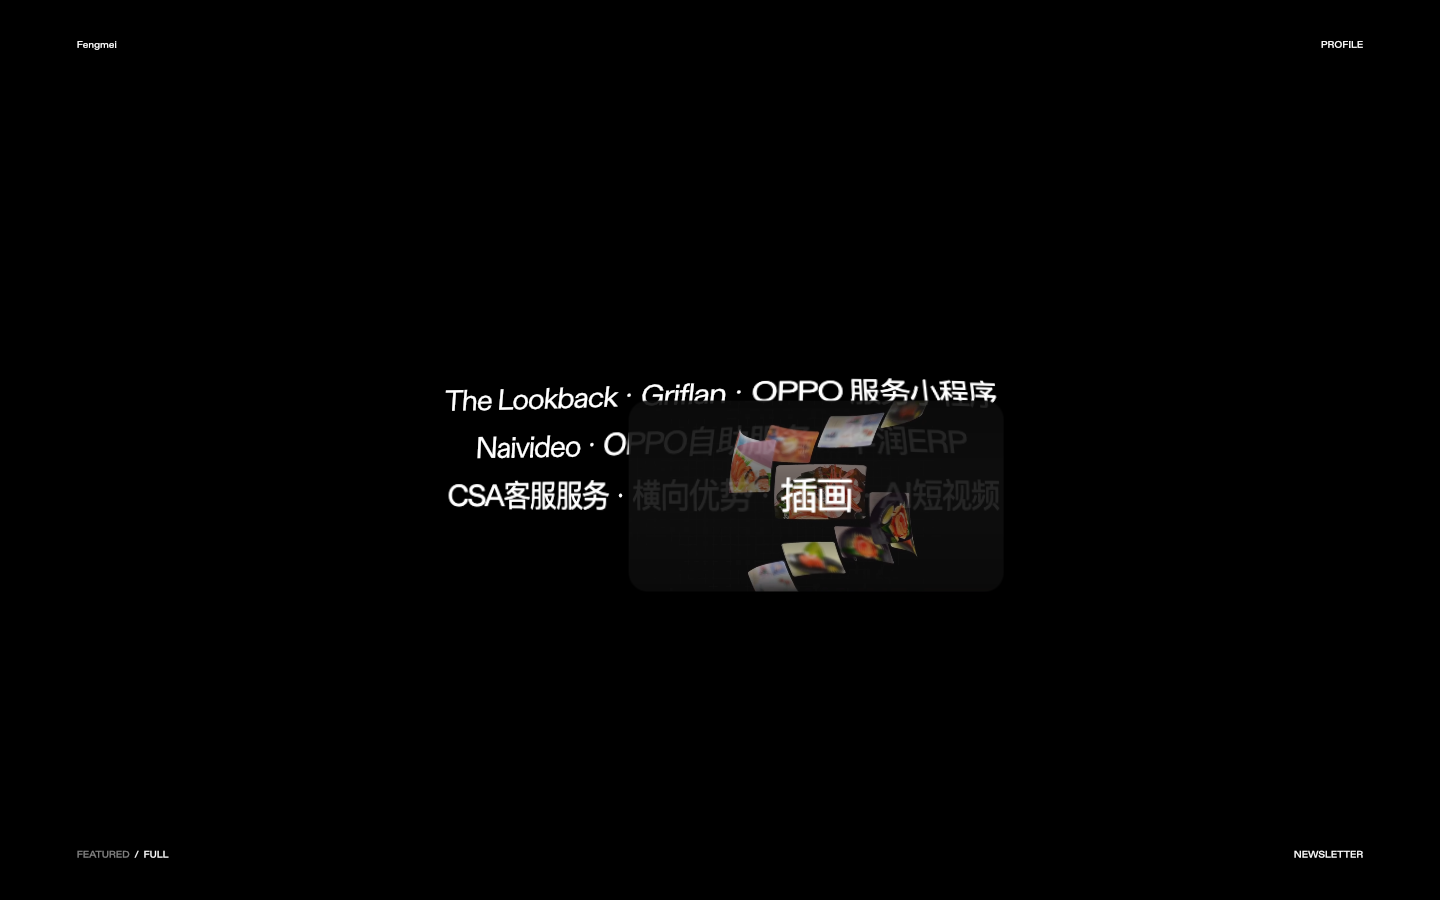
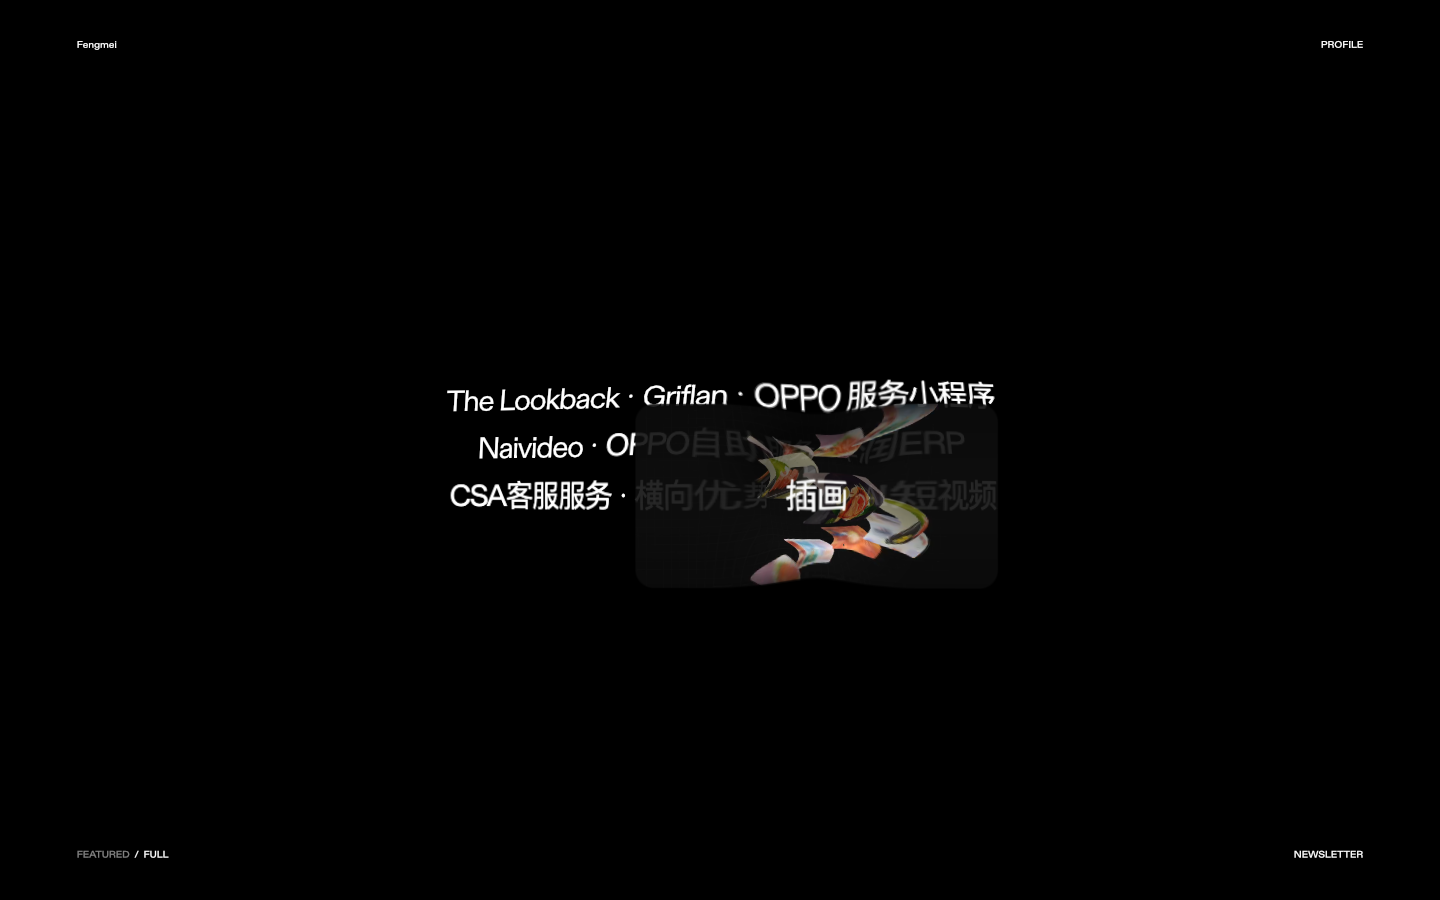
Play home gallery motion automatically without hover

Changed region(s): [[0.3125, 0.4044, 0.6875, 0.6844]]

diff --git a/site/local-motion.js b/site/local-motion.js
@@ -12,31 +12,29 @@
     install: function (folio) {
       if (folio.galleryMotion) return;
       var media = matchMedia('(prefers-reduced-motion: reduce)');
-      var pointer = { x: .5, y: .5, sx: .5, sy: .5, active: false };
-      var hovered = null, pressed = null;
+      var elapsed = 0;
+      var pressed = null;
       var states = new WeakMap();
       var intro = -10000;
       var enabled = function () { return !media.matches && location.pathname === '/' && !folio.ctx.$resize?.small; };
       var clamp = function (n, a, b) { return Math.max(a, Math.min(b, n)); };
       function stateFor(el) {
         var state = states.get(el);
-        if (!state) { state = { hover: 0, press: 0, x: .5, y: .5 }; states.set(el, state); }
+        if (!state) { state = { focus: 0, press: 0, x: .5, y: .5 }; states.set(el, state); }
         return state;
       }
-      folio.galleryMotion = { pointer: pointer, get enabled() { return enabled(); } };
-      window.addEventListener('pointermove', function (e) {
-        pointer.x = e.clientX / innerWidth;
-        pointer.y = e.clientY / innerHeight;
-        pointer.active = e.pointerType !== 'touch';
-        hovered = pointer.active ? e.target.closest?.('[data-gl="card"]') : null;
-      }, { passive: true });
+      folio.galleryMotion = { autoplay: true, get enabled() { return enabled(); } };
       function release() { pressed = null; }
-      function leave() { pointer.active = false; hovered = null; release(); }
       window.addEventListener('pointerdown', function (e) { if (e.button === 0) pressed = e.target.closest?.('[data-gl="card"]'); }, { passive: true });
       window.addEventListener('pointerup', release, { passive: true });
-      window.addEventListener('pointercancel', leave, { passive: true });
-      document.documentElement.addEventListener('pointerleave', leave);
-      window.addEventListener('blur', leave);
+      window.addEventListener('pointercancel', release, { passive: true });
+      window.addEventListener('blur', release);
+      // Home card motion follows its own clock; hover remains native on
+      // navigation and the catalogue, without driving the home presentation.
+      var tone = folio.tone;
+      folio.tone = function () {
+        if (location.pathname !== '/') return tone.apply(this, arguments);
+      };
 
       // Light is evaluated on the existing card surface: no overlay can
       // intercept clicks or cover the four corner navigation controls.
@@ -60,29 +58,33 @@
       var showHome = folio.showHome;
       folio.showHome = function () {
         intro = performance.now();
+        elapsed = 0;
         return showHome.apply(this, arguments);
       };
       var tick = folio.tick;
       folio.tick = function (dt) {
         var k = 1 - Math.exp(-Math.min(dt || .016, .05) * 7);
-        pointer.sx += ((pointer.active ? pointer.x : .5) - pointer.sx) * k;
-        pointer.sy += ((pointer.active ? pointer.y : .5) - pointer.sy) * k;
-        var active = enabled() && this.hole.p < .02;
+        var active = enabled() && this.hole.p < .02 && !document.hidden;
+        if (active) elapsed += Math.min(dt || .016, .05);
         for (var card of this.reg.all()) {
           var el = card.el, uniforms = card.mesh.material.uniforms;
           if (!el?.isConnected || el.dataset.gl !== 'card' || !active) {
             if (uniforms.u_galleryFocus) uniforms.u_galleryFocus.value = 0;
+            if (el?.dataset.gl === 'card' && uniforms.u_hover) uniforms.u_hover.value = 0;
             continue;
           }
-          var state = stateFor(el), box = el._vrect || el.getBoundingClientRect();
-          state.hover += ((el === hovered ? 1 : 0) - state.hover) * k;
+          var state = stateFor(el);
+          var index = Math.max(0, this.cards.findIndex(function (c) { return c.el === el; }));
+          var phase = elapsed * .85 + index * .8;
+          state.focus += ((.68 + .22 * Math.sin(phase)) - state.focus) * k;
           state.press += ((el === pressed ? 1 : 0) - state.press) * Math.min(1, k * 2);
-          var x = clamp((pointer.x * innerWidth - box.left) / Math.max(box.width, 1), 0, 1);
-          var y = clamp((pointer.y * innerHeight - box.top) / Math.max(box.height, 1), 0, 1);
+          var x = .5 + .36 * Math.sin(elapsed * .55 + index * .65);
+          var y = .5 + .24 * Math.cos(elapsed * .45 + index * .5);
           state.x += (x - state.x) * k;
           state.y += (y - state.y) * k;
+          if (uniforms.u_hover) uniforms.u_hover.value = state.focus * .4;
           if (uniforms.u_galleryFocus) {
-            uniforms.u_galleryFocus.value = state.hover;
+            uniforms.u_galleryFocus.value = state.focus;
             uniforms.u_galleryPoint.value.set(state.x, 1 - state.y);
           }
         }
@@ -113,12 +115,12 @@
         var p = clamp((performance.now() - intro - delay) / 1650, 0, 1);
         var arrival = Math.pow(1 - p, 4);
         var state = stateFor(el);
-        var hover = this.hole.p < .02 ? state.hover : 0;
+        var hover = this.hole.p < .02 ? state.focus : 0;
         var press = this.hole.p < .02 ? state.press : 0;
         var h = pose.scale.y;
-        var px = (pointer.sx - .5) * 2;
-        var py = (pointer.sy - .5) * 2;
-        var dy = h * (-.20 * arrival + (px * center * .012 - py * .014) * focus + .018 * hover);
+        var px = Math.sin(elapsed * .35) * .4;
+        var py = Math.cos(elapsed * .3) * .3;
+        var dy = h * (-.20 * arrival + (px * center * .012 - py * .014) * focus + .018 * hover + .007 * Math.sin(elapsed * .9 + index * .5));
         var dz = h * (.045 * focus - .15 * arrival - Math.abs(this.vel || 0) * .045 + .06 * hover - .035 * press);
         el._galleryOffset = { y: dy, z: dz };
         pose.pos.y += dy;

diff --git a/tools/verify_gallery_motion.js b/tools/verify_gallery_motion.js
@@ -17,19 +17,20 @@ const options = { executablePath: '/Applications/Google Chrome.app/Contents/MacO
     await page.waitForTimeout(1800);
     const read = () => page.evaluate(() => {
       const folio = document.querySelector('#__nuxt').__vue_app__.config.globalProperties.$nuxt.$folio;
-      return { enabled: folio.galleryMotion.enabled, pointer: { ...folio.galleryMotion.pointer },
+      return { enabled: folio.galleryMotion.enabled, autoplay: folio.galleryMotion.autoplay,
         cards: folio.cards.filter(c => c.el.isConnected).map(c => ({ slug: c.slug, pos: c.mesh.position.toArray(), quat: c.mesh.quaternion.toArray(),
           focus: c.mesh.material.uniforms.u_galleryFocus?.value, light: c.mesh.material.uniforms.u_galleryPoint?.value.toArray() })),
         labels: folio.texts.filter(t => t.el.isConnected).map(t => t.el.textContent) };
     });
-    await page.mouse.move(720, 450);
+    // Leave the pointer parked outside the cards: movement must run by itself.
+    await page.mouse.move(20, 20);
     await page.waitForTimeout(800);
     const before = await read();
-    await page.mouse.move(1050, 300, { steps: 12 });
-    await page.waitForTimeout(900);
+    await page.waitForTimeout(1500);
     const after = await read();
     check('desktop gallery active with ten projects', before.enabled && before.cards.length === 10);
-    check('pointer changes rendered card pose', after.cards.some((c, i) => Math.abs(c.pos[1] - before.cards[i].pos[1]) > .001));
+    check('card poses animate without hover', after.autoplay && after.cards.some((c, i) => Math.abs(c.pos[1] - before.cards[i].pos[1]) > .001));
+    check('surface lighting animates without hover', after.cards.some((c, i) => Math.abs(c.light[0] - before.cards[i].light[0]) > .01 && c.focus > .2));
     check('all card poses stay finite', after.cards.every(c => c.pos.concat(c.quat).every(Number.isFinite)));
     check('all card surfaces support directional light', after.cards.every(c => Number.isFinite(c.focus) && c.light.length === 2));
     check('Chinese project captions are rendered', after.labels.includes('OPPO自助服务') && after.labels.includes('华润ERP'));
@@ -47,7 +48,7 @@ const options = { executablePath: '/Applications/Google Chrome.app/Contents/MacO
     const target = page.locator('[data-gl="card"][data-id="' + slug + '"]');
     await target.hover(); await page.waitForTimeout(1100);
     const focused = (await read()).cards.find(c => c.slug === slug);
-    check('hover focuses and lights the active card', focused.focus > .8);
+    check('automatic focus remains active while interacting', focused.focus > .2);
     await page.screenshot({ path: 'screenshots/gallery_motion_focus.png' });
     await page.mouse.down(); await page.waitForTimeout(220);
     const pressed = (await read()).cards.find(c => c.slug === slug);
